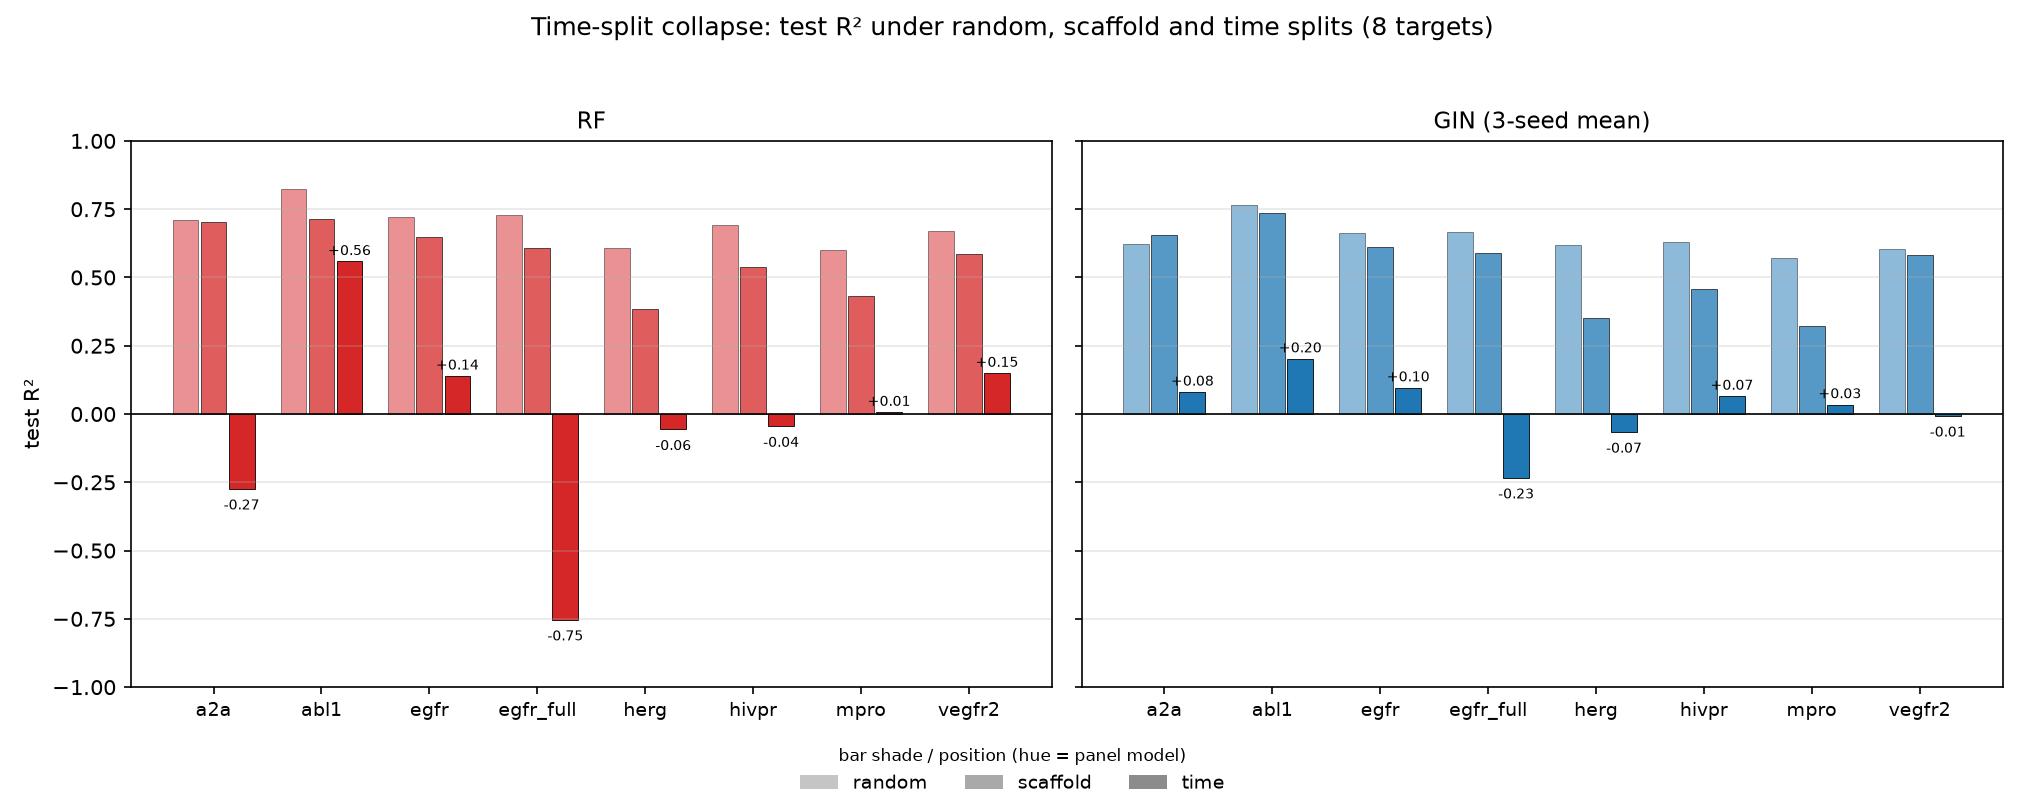
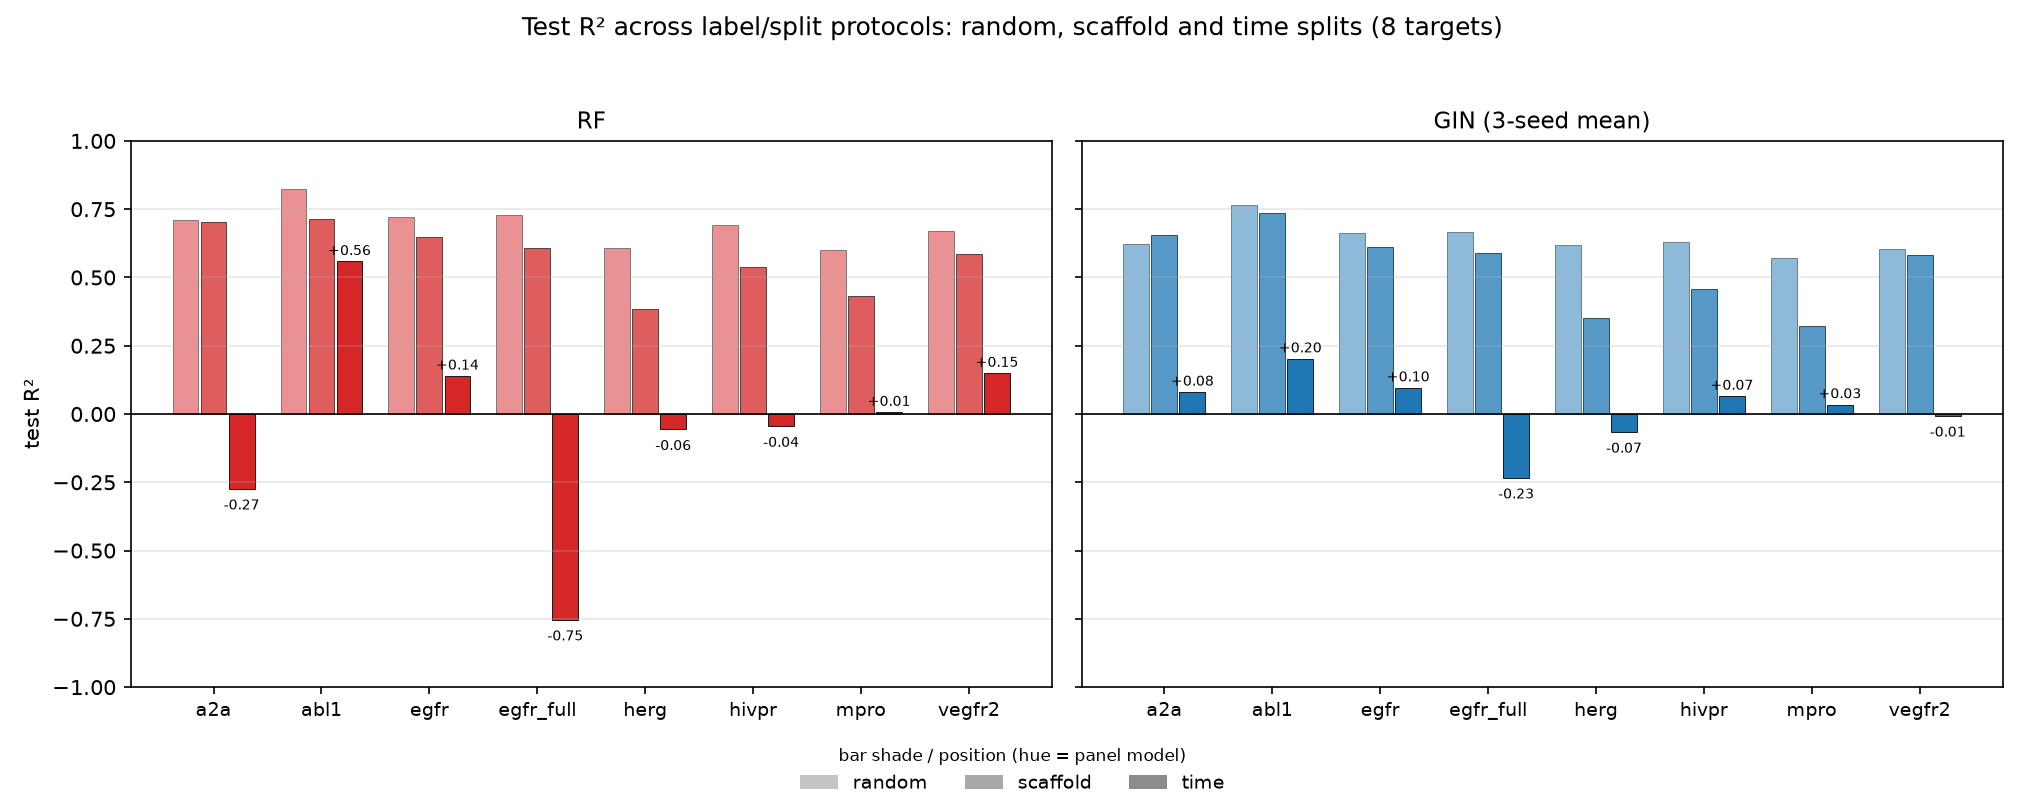
Record PR8 audit evidence and matched environment-budget protocol

Changed region(s): [[0.2489, 0.0, 0.7467, 0.0617]]

diff --git a/experiments/LOG.md b/experiments/LOG.md
@@ -13,12 +13,15 @@ results. The initial 2026-10-13 entry records the preceding campaign; its hERG
 scores and aggregate means are superseded. Earlier all-year-label time scores
 are historical only.**
 
-## 2026-10-14 — PR #8 review corrections and an authorized budget comparison
+## 2026-10-14 — PR #8 review corrections and an environment × budget study
 
 This entry records review corrections to the current repaired campaign. The
 published model weights, predictions and historical metric JSON entries are
-preserved. New diagnostics are separate artifacts; the two-budget follow-up
-described below was authorized but **had not started when this entry was written**.
+preserved. New diagnostics are separate artifacts. The authorized follow-up now
+forms a 2 × 2 environment/budget study: the M3 CPU campaign is executing its
+48-job queue; the 4070 CUDA campaign's 48 jobs must wait until the user connects
+that machine and tells the coordinator to proceed. This update supersedes the
+earlier plan's "not yet started" status; it does not report completed study results.
 
 - **T1 — resampling-unit sensitivity:** the existing 24-cell scaffold comparison
   covers eight targets and GIN/GINE/AttentiveFP. Seven of ten molecule-bootstrap
@@ -79,15 +82,31 @@ described below was authorized but **had not started when this entry was written
 - **Additional guard:** learning-curve, y-randomization and XGBoost auxiliary
   commands now reject unsupported `time` splits explicitly, instead of silently
   applying their random/scaffold label path to temporal data.
-- **Authorized follow-up, not yet executed:** compare both budgets on M3 in the
-  same environment: original `epochs=100, min_epochs=0, patience=20` versus
-  extended `epochs=200, min_epochs=60, patience=40`, each over eight targets and
-  seeds 42/1/2 (**48 jobs total**). The worker now exposes these budget arguments
-  and records them in job provenance. No follow-up scores or convergence claims
-  are available yet; current accepted results remain the reference. Both arms
-  must share the same frozen inputs and environment so budget effects are not
-  conflated with the previous CUDA-versus-M3 environment difference. This plan
-  does not authorize selecting seeds or replacement results by test performance.
+- **Authorized 2 × 2 follow-up:** both M3 CPU and 4070 CUDA run the original
+  budget (`epochs=100, min_epochs=0, patience=20`) and the extended budget
+  (`epochs=200, min_epochs=60, patience=40`). Each cell contains eight targets ×
+  seeds 42/1/2: **24 jobs per cell, 48 per environment, 96 total**. M3 is the
+  current executing campaign; the fresh 4070 pair is waiting for the user's
+  connection message. All four cells must use the same frozen current labels,
+  split indices, graph inputs, training-source revision, model, optimizer,
+  scheduler and validation-selection rule. Only the declared budget and
+  environment factors differ; environment versions and execution settings are
+  recorded rather than assumed equivalent.
+- **Analysis and interpretation:** retain every target/seed result and its
+  paired contrasts, not only four aggregate averages. Compare extended minus
+  original within each environment, CUDA minus CPU at each budget, and the
+  difference between the two within-environment budget contrasts. Primary
+  diagnostics are best-checkpoint eval training MSE and validation RMSE; report
+  the full cohort's test scores secondarily without selecting budgets, seeds or
+  replacement models by those scores. The common early-fit diagnostic uses
+  `best_epoch < 30` and standardized train MSE > 0.5 in both budget arms, avoiding
+  a changed threshold merely because the maximum epoch count doubled. Operating
+  system, architecture, numerical kernels and underlying libraries remain
+  bundled with device, so the comparison estimates an **environment-associated
+  difference, not a pure causal hardware effect**. Longer training is not
+  presumed better. The old accepted CUDA fits remain historical references and
+  are not substituted for the newly matched original-budget CUDA cell; all
+  existing accepted results remain intact while the study is performed.
 
 ## 2026-10-14 — hERG parent-key repair and reproducible temporal inputs
 

diff --git a/docs/methodology.md b/docs/methodology.md
@@ -1140,6 +1140,63 @@ SSH/shell transcript, and do not establish every historical invocation. Their
 purpose is to expose the historical implementation; the supported read-only
 re-audit commands are the parameterized commands above.
 
+### Follow-up: a matched environment × training-budget study
+
+The follow-up is part of the project as a 2 × 2 comparison, separate from the
+accepted temporal results above. The M3 CPU campaign is currently executing its
+48-job queue. The 4070 CUDA campaign will start only after the user connects that
+machine and gives the connection-ready message; its two arms are still pending.
+
+| Execution environment | Original budget | Extended budget |
+| --- | --- | --- |
+| M3 Max CPU | 24 jobs in the current M3 campaign | 24 jobs in the current M3 campaign |
+| Ubuntu / RTX 4070 Laptop CUDA | 24 fresh jobs, awaiting connection | 24 fresh jobs, awaiting connection |
+
+Each cell covers all eight targets and seeds 42/1/2. The original budget is
+`epochs=100, min_epochs=0, patience=20`; the extended budget is
+`epochs=200, min_epochs=60, patience=40`. Thus the full study has 96 jobs, with
+48 per environment. Both budgets retain the same learning-rate scheduler; this
+is not an architecture or learning-rate search. The current M3 coordinator,
+`scripts/run_time_budget_study.py`, isolates the two arms from the input bundle
+and published outputs, records its protocol, and resumes only verified jobs.
+The pending CUDA deployment must use the same frozen training source and input
+versions as the M3 study; the historical accepted CUDA runs are reference data,
+not substitutes for a newly matched cell in this design.
+
+Freeze the labels, split indices, graph caches, model architecture, optimizer,
+scheduler, seeds and lowest-validation-RMSE checkpoint-selection rule across all
+four cells. Record the source/input hashes, actual device, package versions,
+operating system, thread/concurrency settings and numerical execution settings.
+Keep execution settings consistent between the two budgets within each
+environment. The environment contrast still combines CPU/CUDA, operating system,
+processor architecture, library builds and numerical kernels; it must be called
+an **environment effect**, not a pure causal hardware effect. Matching seed
+numbers enables paired reporting but does not imply bit-identical optimization
+across CPU and CUDA.
+
+For each target and seed, report both budgets in both environments, including
+best epoch, stopping epoch, best-checkpoint eval training MSE, validation RMSE,
+test metrics and runtime. The primary comparison concerns training/validation
+behavior; test scores are a secondary report for the complete prespecified
+cohort. Do not select budgets, seeds or replacement models from test performance.
+Use a common supplementary flag (`best_epoch < 30` and standardized training
+MSE > 0.5) across both budgets, rather than allowing the diagnostic threshold to
+double with `max_epochs`. This flag remains a heuristic, not proof of failure
+to converge.
+
+For any reported metric, let `M(environment, budget)` denote its value for the
+same target/seed. Calculate the paired budget contrast
+`M(environment, extended) − M(environment, original)` within each environment,
+the paired environment contrast `M(CUDA, budget) − M(CPU, budget)` at each
+budget, and their interaction as the CUDA budget contrast minus the CPU budget
+contrast. Preserve the target/seed rows and paired contrasts alongside any
+aggregate tables or uncertainty summaries; four grand means alone conceal
+heterogeneity. Lower loss and higher R² have opposite favorable directions.
+Targets include overlapping datasets and three seeds provide limited training
+replication, so aggregate uncertainty must not treat all rows as independent.
+No study outcome or improvement is claimed in advance, and the original accepted
+weights, predictions and metric history remain unchanged.
+
 ### Frozen inputs and local preparation
 
 The coordinator copies and hashes the 25 existing input files (document
